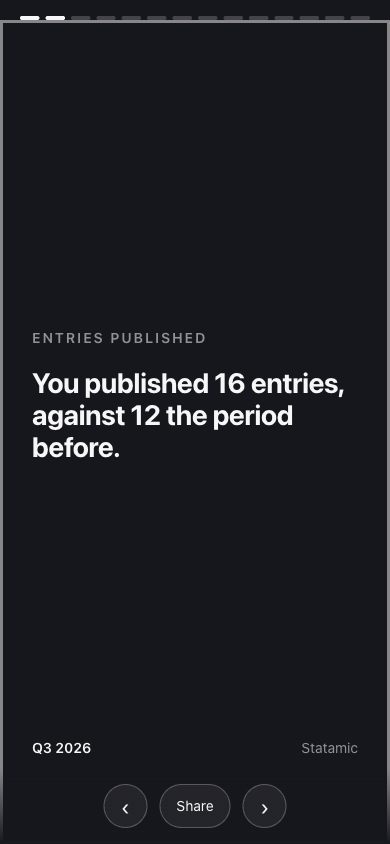
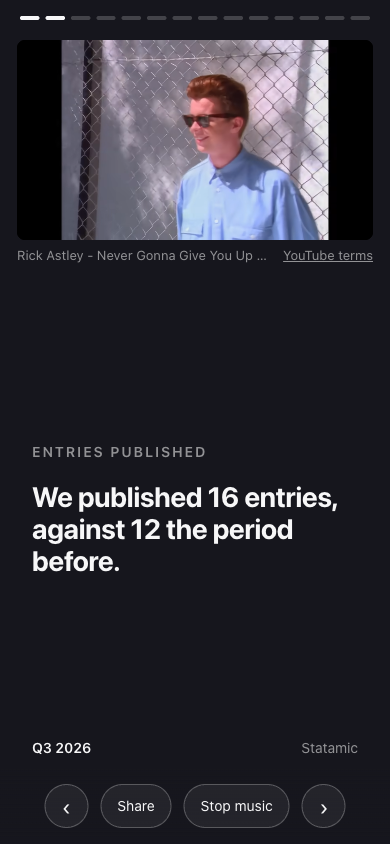
Fresh 1.5 screenshots of the share panel and the public story
The share panel now shows the voice choice, the music field and a live link
with its song; the public story on a phone reads as "we" with the YouTube
tile open. Captions in docs/marketplace.md to match.

diff --git a/docs/marketplace.md b/docs/marketplace.md
@@ -48,7 +48,7 @@ Free. Statamic 6, PHP 8.2+.
 
 ## Screenshots, in order
 
-All taken from the shipped release (1.4) on a seeded Statamic 6 site.
+All taken from the shipped release on a seeded Statamic 6 site: 1.4 for most, 1.5 for the two public-links shots (7 and 8).
 
 1. `docs/screenshots/cp-screen.png` — the Wrapped screen, with the period picker and Play it
 2. `docs/screenshots/story.png` — the tap-through story in the control panel
@@ -56,8 +56,8 @@ All taken from the shipped release (1.4) on a seeded Statamic 6 site.
 4. `docs/screenshots/card-longest_untouched.png` — "Quietly doing its job"
 5. `docs/screenshots/video-maker.png` — choosing cards and music for the video
 6. `docs/screenshots/settings.png` — the settings screen: look, and the public-links switch
-7. `docs/screenshots/share-panel.png` — making and revoking public links
-8. `docs/screenshots/public-story.png` — the public page on a phone, with the Share button
+7. `docs/screenshots/share-panel.png` — making and revoking public links: the voice choice, the music field, a live link with its song
+8. `docs/screenshots/public-story.png` — the public page on a phone, written as "we", with the YouTube tile open and the Share button
 9. `docs/screenshots/summary.png` — the whole thing as one image
 10. `docs/screenshots/dashboard-widget.png` — the dashboard widget
 
